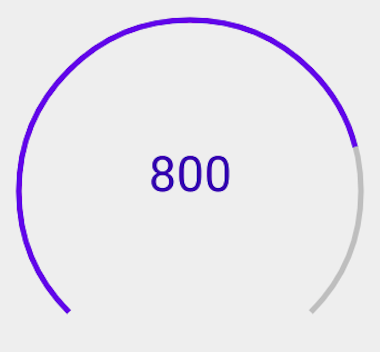
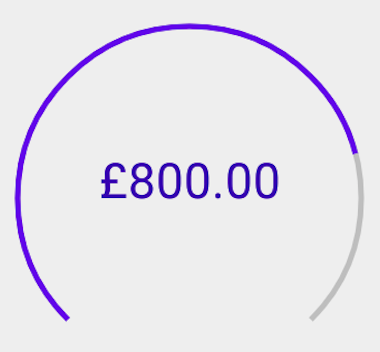
Improve sample 3

diff --git a/app/src/main/java/com/sildian/apps/circularslider/MainActivity.kt b/app/src/main/java/com/sildian/apps/circularslider/MainActivity.kt
@@ -1,11 +1,26 @@
 package com.sildian.apps.circularslider
 
+import android.content.Context
 import androidx.appcompat.app.AppCompatActivity
 import android.os.Bundle
+import com.sildian.apps.circularsliderlibrary.ValueFormatter
+import kotlinx.android.synthetic.main.activity_main.*
+import java.text.NumberFormat
+import java.util.*
 
 class MainActivity : AppCompatActivity() {
+
     override fun onCreate(savedInstanceState: Bundle?) {
         super.onCreate(savedInstanceState)
         setContentView(R.layout.activity_main)
+
+        val circularSlider = activity_main_circular_slider_3
+        circularSlider.valueFormatter = CurrencyFormatter()
+    }
+
+    private class CurrencyFormatter: ValueFormatter {
+
+        override fun formatValue(value: Int, context: Context?): String =
+            NumberFormat.getCurrencyInstance(Locale.UK).format(value)
     }
 }

diff --git a/CircularSliderLibrary/src/main/java/com/sildian/apps/circularsliderlibrary/CircularSlider.kt b/CircularSliderLibrary/src/main/java/com/sildian/apps/circularsliderlibrary/CircularSlider.kt
@@ -337,7 +337,7 @@ class CircularSlider(context:Context, attrs:AttributeSet) : View(context, attrs)
 
     /**Gesture detector**/
 
-    inner class GestureListener:GestureDetector.SimpleOnGestureListener(){
+    private inner class GestureListener:GestureDetector.SimpleOnGestureListener(){
         override fun onDown(e: MotionEvent?): Boolean {
             return true
         }

diff --git a/README.md b/README.md
@@ -4,7 +4,7 @@ This library provides a custom view allowing to set a value by swiping the finge
 
 ![alt text](sample_1.png)
 
-### Get started
+## Get started
 
 Implementing this view is really simple, you'll see !
 
@@ -25,7 +25,9 @@ Then add the dependency into your app build.gradle :
 
 That's it ! You can now user the Circular Slider into your project.
 
-### Use it
+## Use it
+
+### Sample 1
 
 Really easy ! To create a simple sample like the one shown above, just write this code into your layout :
 
@@ -35,7 +37,9 @@ Really easy ! To create a simple sample like the one shown above, just write thi
         android:layout_height="wrap_content"
         android:layout_margin="16dp"/>
 
-You want to change the size, the colour, or set a starting value ? No problem, here is the sample 2 :
+### Sample 2
+
+You want to change the size, the colour, or set a starting value ? No problem :
 
 ![alt text](sample_2.png)
 
@@ -51,7 +55,9 @@ You want to change the size, the colour, or set a starting value ? No problem, h
         app:valueTextSize="22sp"
         app:currentValue="50"/>
 
-Let's go further ! Set a min and max value, as well as a step value with the sample 3 :
+### Sample 3
+
+Let's go further ! Set a min and max value, as well as a step value :
 
 ![alt text](sample_3.png)
 
@@ -67,6 +73,42 @@ Let's go further ! Set a min and max value, as well as a step value with the sam
         app:minValue="100"
         app:maxValue="1000"
         app:stepValue="100"/>
+
+I guess you realized that in this sample the value text is formatted. How can we do that ? In the Main Activity.
+First, create a class implementing 'ValueFormatter' and override 'formatValue'.
+Then set an instance of your class as 'valueFormatter' of the 'circularSlider'.
+
+	class MainActivity : AppCompatActivity() {
+
+    	override fun onCreate(savedInstanceState: Bundle?) {
+        	super.onCreate(savedInstanceState)
+        	setContentView(R.layout.activity_main)
+
+	        val circularSlider = activity_main_circular_slider_3
+      	  circularSlider.valueFormatter = CurrencyFormatter()
+    	}
+
+	    private class CurrencyFormatter: ValueFormatter {
+
+    	    override fun formatValue(value: Int, context: Context?): String =
+        	    NumberFormat.getCurrencyInstance(Locale.UK).format(value)
+	    }
+	}
+
+### All attributes
+
+| minValue | integer |
+| maxValue | integer |
+| currentValue | integer |
+| stepValue | integer |
+| showValueText | boolean |
+| sliderWidth | dimension |
+| sliderColor | color |
+| valueTextSize | dimension |
+| valueTextColor | color |
+
+All attributes can be set in xml or in code.
+
 
 Hope you'll enjoy this library !
 
